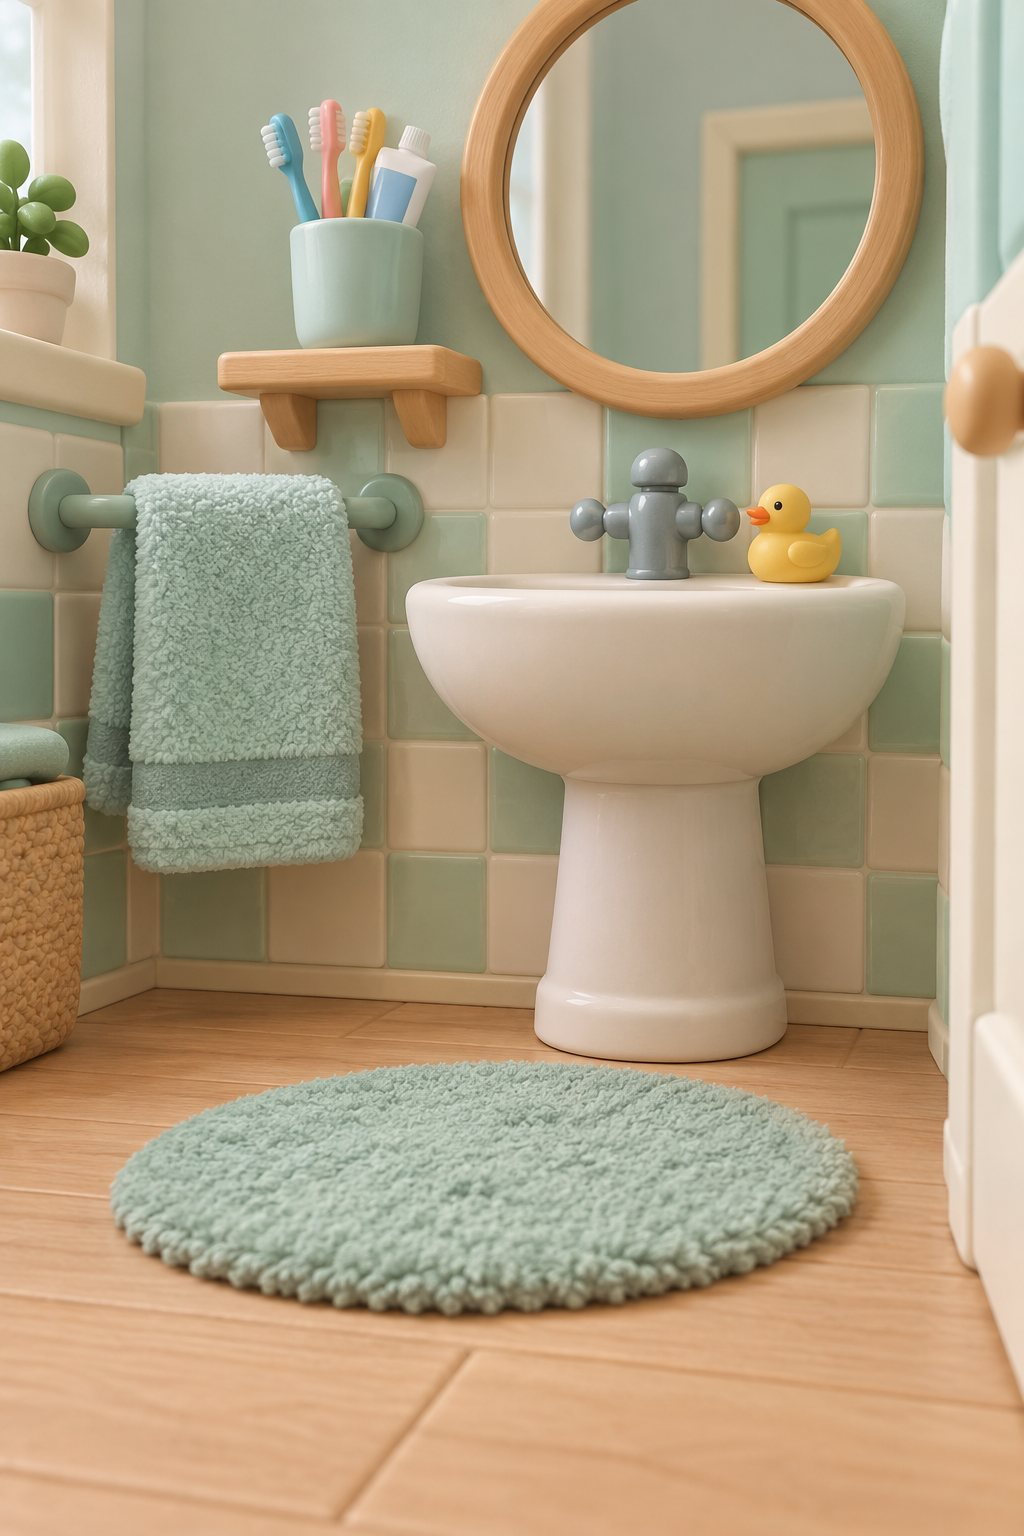
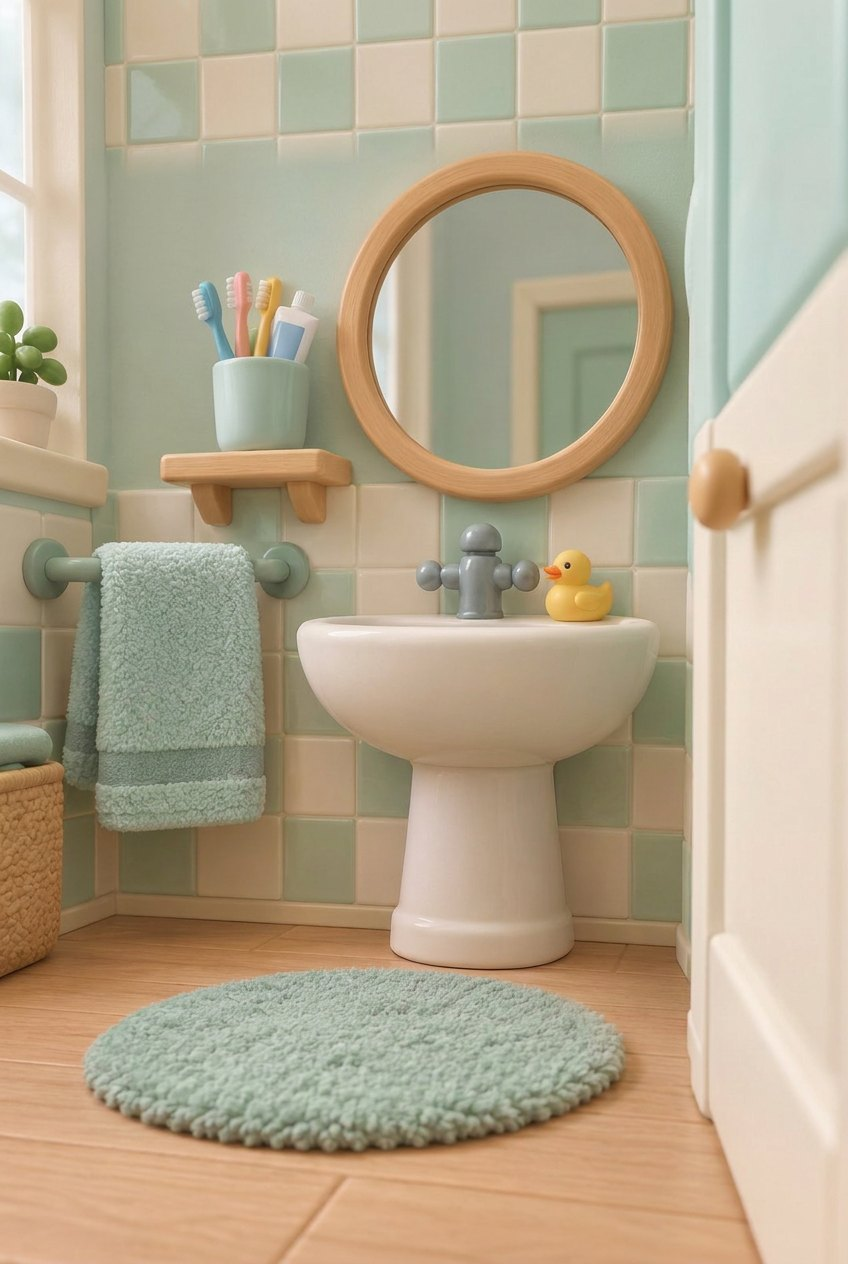
Слоник стоит на коврике, раковина за ним
- новый кадр ванной: раковина на ножке за слоником, коврик внизу
- фон дома привязан к низу экрана — коврик под ногами на любой высоте экрана

diff --git a/index.html b/index.html
@@ -695,7 +695,7 @@ const FLAGS = {
   it: '<svg class="flag" viewBox="0 0 18 13"><rect width="6" height="13" fill="#1f9d55"/><rect x="6" width="6" height="13" fill="#fff"/><rect x="12" width="6" height="13" fill="#e2263b"/></svg>'
 };
 const PLACES = {
-  home: { name: 'Дом', bg: 'assets/bg/home.jpg', hello: 'Я дома, в своей ванной!' },
+  home: { name: 'Дом', bg: 'assets/bg/home.jpg', pos: '50% 100%', hello: 'Я дома, в своей ванной!' },
   ch: { name: 'Швейцария', bg: 'assets/bg/swiss.jpg', in: 'Швейцарии', hello: 'Привет из Альп! Как тебе моя шляпа?' },
   jp: { name: 'Япония', bg: 'assets/bg/japan.jpg', in: 'Японии', hello: 'Коннитива! Смотри, я в кимоно!' },
   it: { name: 'Италия', bg: 'assets/bg/italy.jpg', in: 'Италии', hello: 'Чао! Я теперь гондольер!' }
@@ -1354,8 +1354,9 @@ let bgFront = 'A';
 function setBg(k, instant) {
   const next = bgFront === 'A' ? 'B' : 'A';
   const nEl = $('#bg' + next), cEl = $('#bg' + bgFront);
-  nEl.style.backgroundImage = `url(${PLACES[k].bg})`;
-  if (instant) { cEl.style.backgroundImage = nEl.style.backgroundImage; return; }
+  // дом привязан к низу экрана: коврик всегда под ногами слоника, раковина за ним
+  nEl.style.backgroundImage = `url(${PLACES[k].bg})`; nEl.style.backgroundPosition = PLACES[k].pos || '';
+  if (instant) { cEl.style.backgroundImage = nEl.style.backgroundImage; cEl.style.backgroundPosition = nEl.style.backgroundPosition; return; }
   nEl.style.opacity = 1; cEl.style.opacity = 0; bgFront = next;
 }
 async function travel(k) {
